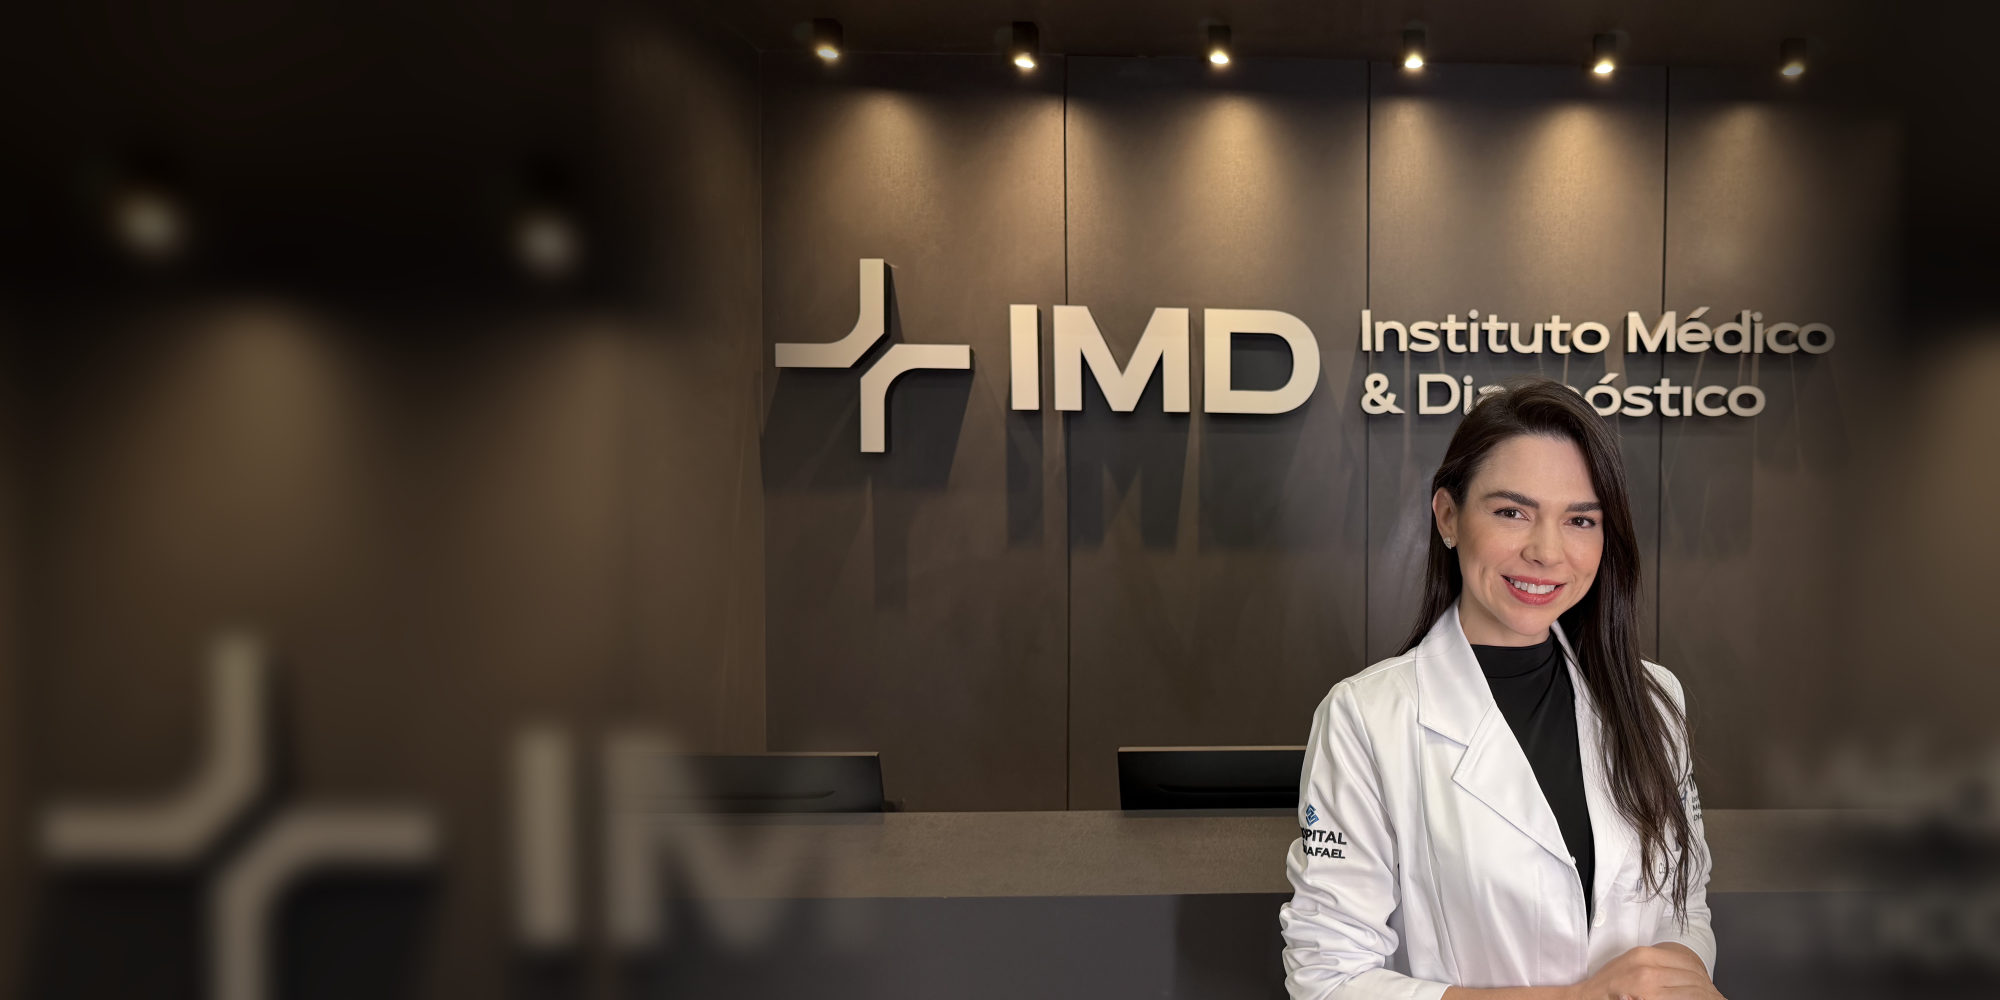
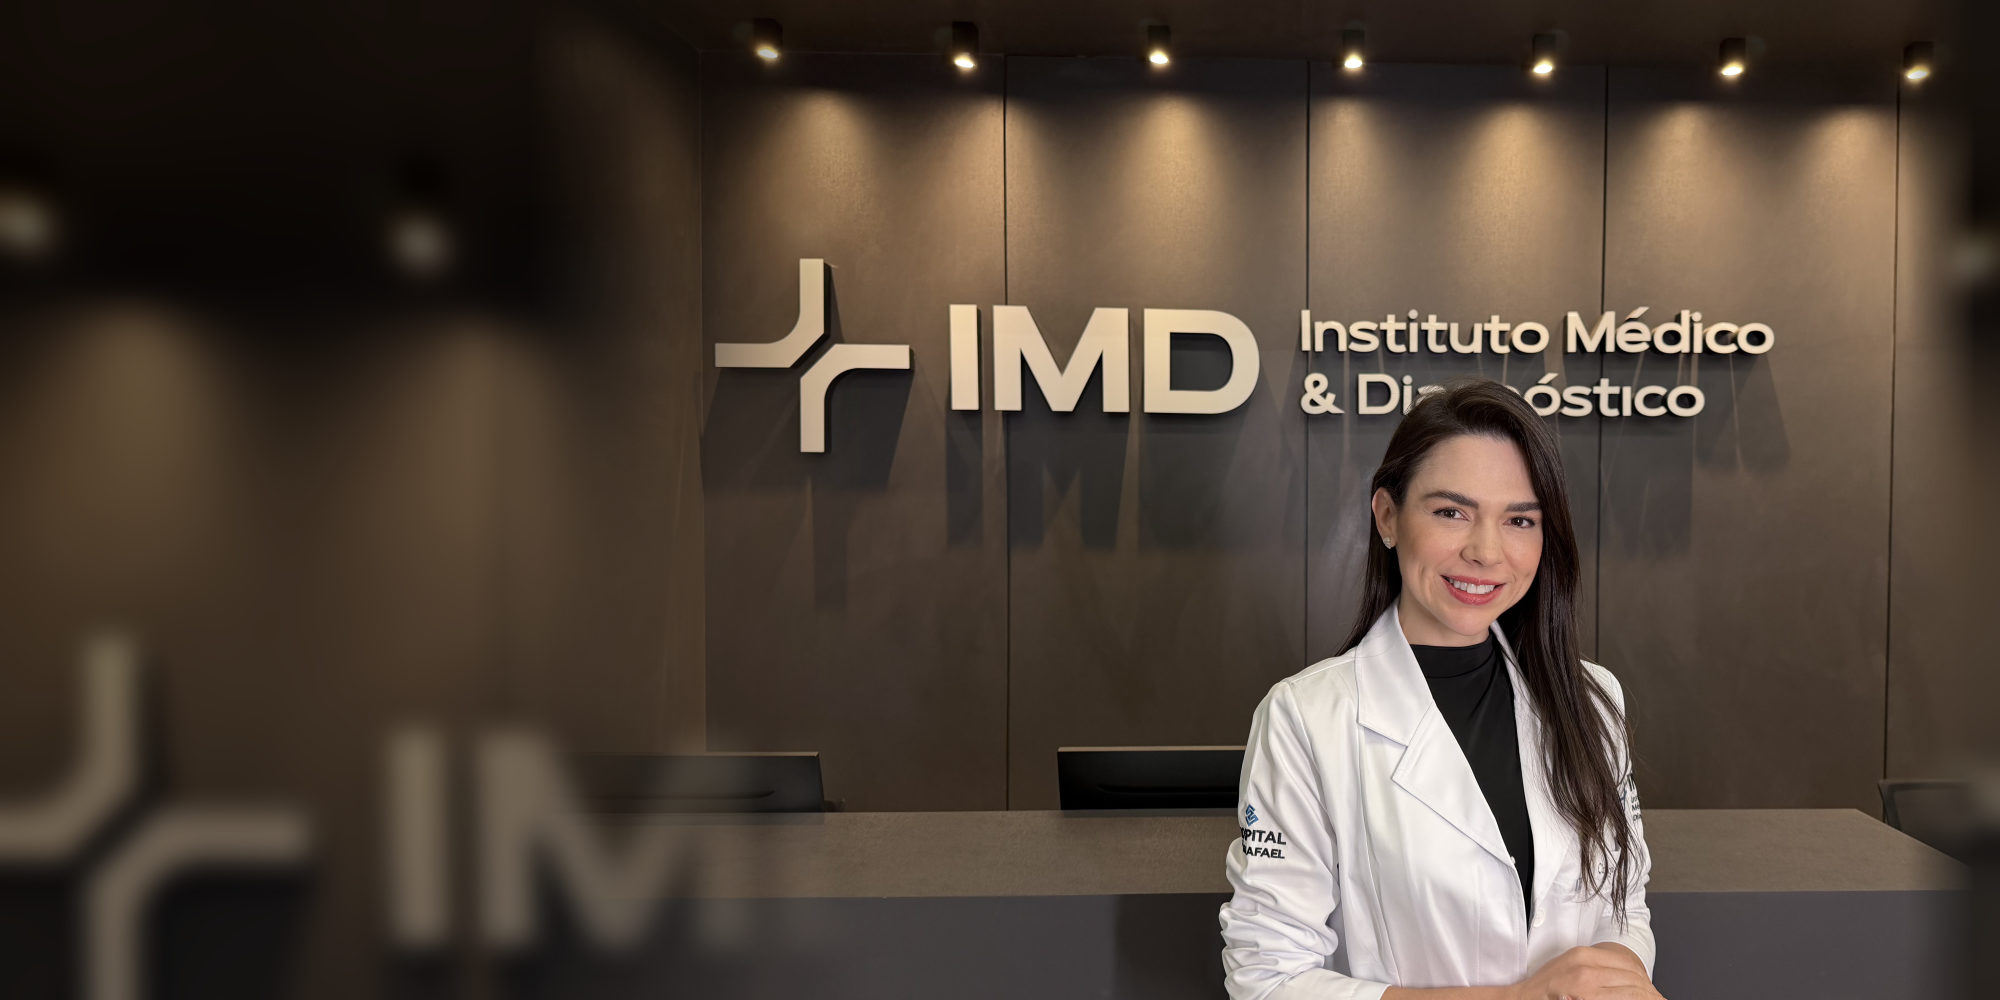
style(especialidades): médico limpo + overlay só na área do texto
- Recompoe heros com feather direito mínimo: médico aparente/nítido
  (como foto sem filtro), à direita, posição consistente (dermatologia
  como referência).
- Overlay passa a escurecer só a área do texto e deixa o médico
  transparente: desktop esquerda→direita (to-transparent), mobile
  baixo→cima (to-transparent).

diff --git a/src/lib/data/especialidades-lp.ts b/src/lib/data/especialidades-lp.ts
@@ -86,13 +86,13 @@ const PLACEHOLDER_HERO = "/assets/images/servicos/centro-cirurgico-v2.jpg"
 // Foto real do médico da especialidade (parede IMD). Ver public/assets/images/especialidades/.
 const docHero = (slug: string) => `/assets/images/especialidades/${slug}.jpg`
 
-// Overlay do hero com médico, responsivo:
-//  - mobile: gradiente de baixo p/ cima (texto no rodapé legível, rosto no topo)
-//  - desktop (lg+): direcional esquerda→direita (texto à esquerda escuro,
-//    médico à direita mais claro)
+// Overlay do hero com médico: escurece só a área do TEXTO e deixa o médico
+// LIMPO (transparente), como foto sem filtro.
+//  - mobile: escuro embaixo (texto), transparente em cima (médico)
+//  - desktop (lg+): escuro à esquerda (texto), transparente à direita (médico)
 const OVERLAY_DOC =
-  "bg-gradient-to-t from-charcoal/90 via-charcoal/55 to-charcoal/30 " +
-  "lg:bg-gradient-to-r lg:from-charcoal/90 lg:via-charcoal/60 lg:to-charcoal/20"
+  "bg-gradient-to-t from-charcoal/88 via-charcoal/25 to-transparent " +
+  "lg:bg-gradient-to-r lg:from-charcoal/95 lg:via-charcoal/45 lg:to-transparent"
 
 /** Prova institucional do HSR, igual para todas as especialidades. */
 const WHY_HSR: ServiceHighlightsData = {
